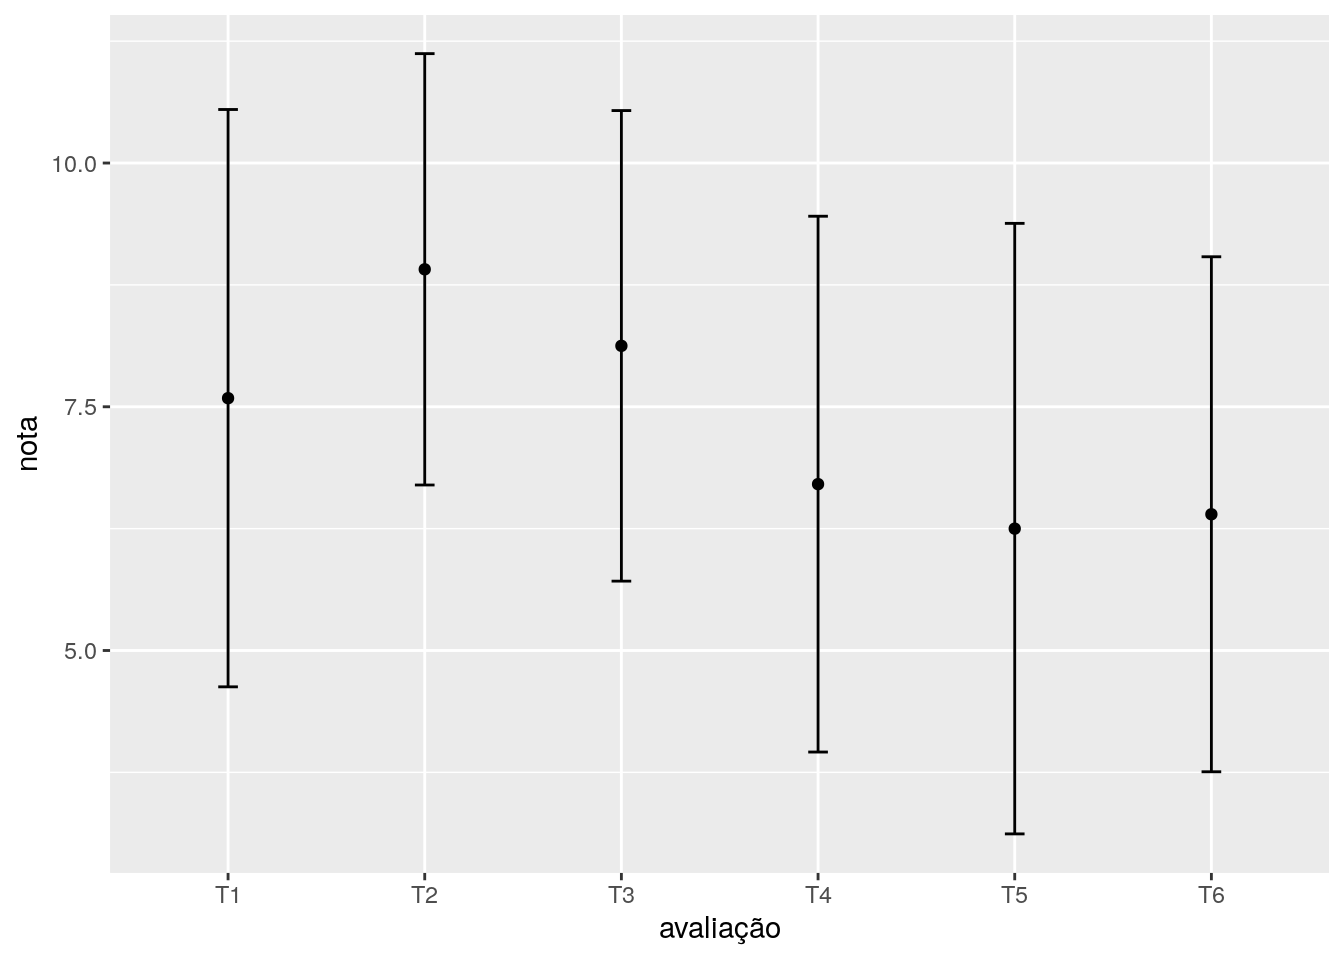
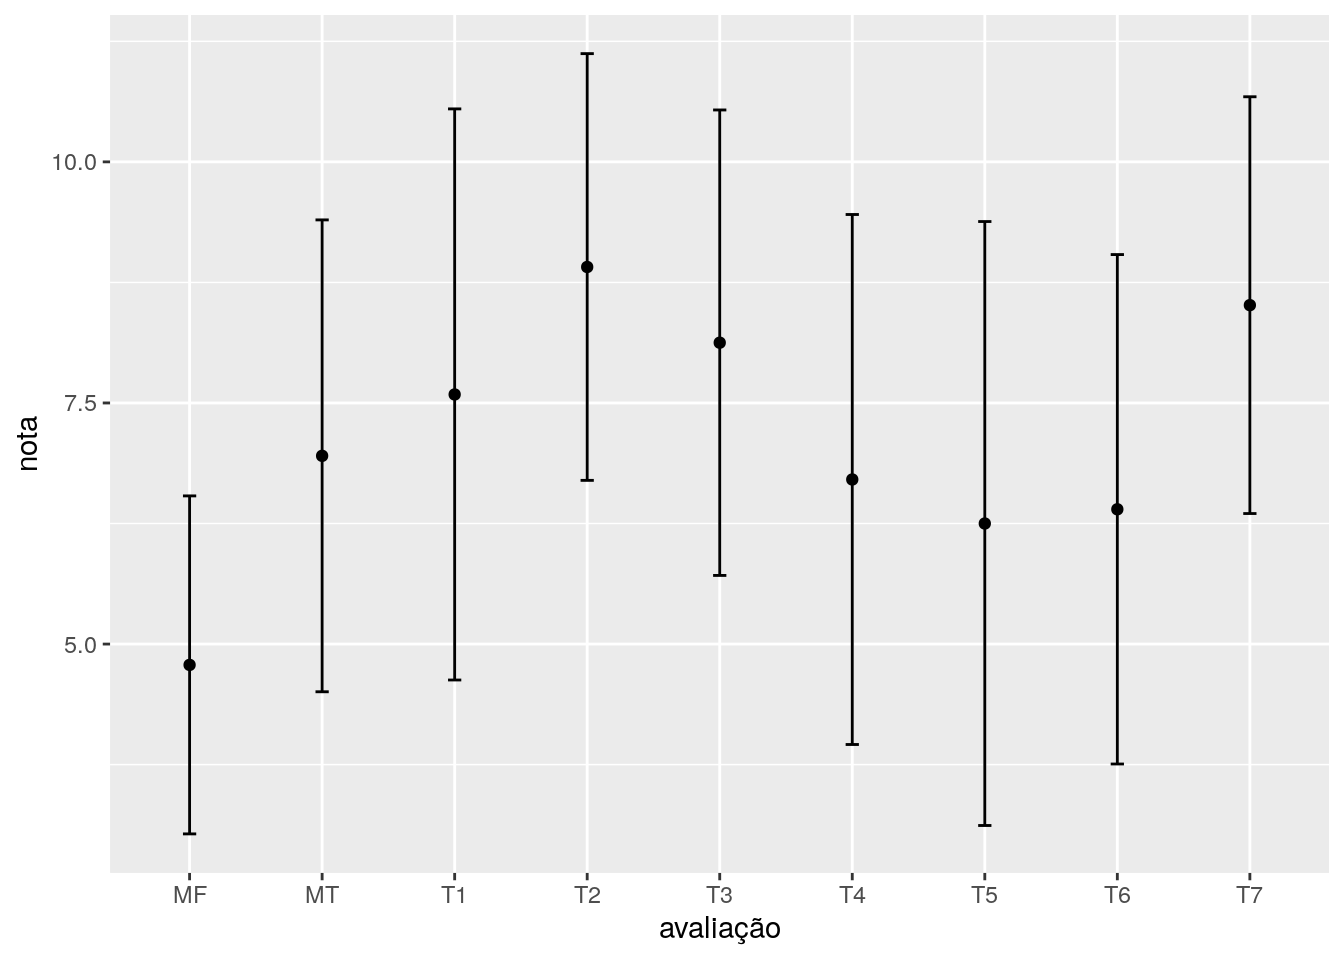
2019_2: grades prob_1 - T7 adv_if - P2

diff --git a/content/classes/2019_2_prob_1/grades.html b/content/classes/2019_2_prob_1/grades.html
@@ -29,7 +29,7 @@ código de ética desta disciplina e você está reprovado.</p></li>
 <div id="notas" class="section level3">
 <h3>Notas</h3>
 <div id="htmlwidget-1" style="width:100%;height:auto;" class="datatables html-widget"></div>
-<script type="application/json" data-for="htmlwidget-1">{"x":{"filter":"none","data":[[282,292,295,299,300,303,313,560,955,956,1779,1810,1877,1879,1880,1892,1914,1949,2066,2119,2123,2728,2872,3228,4149,4459,4750,4843,4844,4847,4855,4878,4882,5946,6690,7200,7390,7653,7703,7838,7857,7920,8013,8649,8675,8683,8692,8695,8921,9309,9339,9739,9782],[0.5,0.25,0.5,0,0.5,0.25,0.5,0.5,0,0,0.5,0,0,0.5,0,0.25,0.25,0.25,0,0,0,0,0.5,0.5,0,0,0,0,0.25,0,0.5,0.5,0,0,0,0,0.25,0,0.5,0.25,0,0.25,0,0,0.25,0.5,0.25,0,0,0,0,0,0],[5,10,10,10,10,10,5,4,10,10,5,0,10,7,3,10,10,4,7,5,0,10,10,10,7,5,3,5,2,5,10,10,10,8,1,10,10,10,10,4,10,4,10,10,3,10,10,2,8,10,10,10,5],[10,10,8,9,10,10,1,10,9.5,11,10,6,10,9,7.5,7,10,9.5,11,8,0,10,10,8,9.5,9,8,10,10,0,10,10,10,10,0,10,4,10,10,10,10,10,11,2,10,4,11,6,7,9.5,11,9,10],[6,10,10,10,10,10,10,4,10,4.5,6,0,8,10,7,10,10,10,8,4,0,4,10,6,10,0,6,6,10,0,10,10,10,9.5,1,10,9,7,6,7,10,9,10,0,6,10,10,3,10,7,6,10,10],[6,10,10,8,10,9,11,10,8,10,8.5,0,4,3,9,8,8,7.5,2,3,0,5,8,10,9,4,5,7,9,0,5,10,6,3,0,6.5,4,7,10,4,3,3,4,0,4,4,0,7,3,0,10,10,3],[10,10,10,7.5,10,9.5,10,3,0,0,3,0,0,6,4,0,9,4,0,6,0,10,0,0,0,0,0,0,6,0,4,0,3,0,0,0,0,0,7.5,1,1,0,1,0,0,6,7,0,9,0,0,5,0],[8,10,4,7,10,2,8,0,5,6.5,8,0,9,8,5,6,6,8,1,2,0,9,9,9,6,1,0,8,3,0,6,9,0,0,0,0,7,7,1,6,9,5,7,0,0,3,10,0,0,0,9,6,6]],"container":"<table class=\"display\">\n  <thead>\n    <tr>\n      <th>RA<\/th>\n      <th>Part<\/th>\n      <th>T1<\/th>\n      <th>T2<\/th>\n      <th>T3<\/th>\n      <th>T4<\/th>\n      <th>T5<\/th>\n      <th>T6<\/th>\n    <\/tr>\n  <\/thead>\n<\/table>","options":{"dom":"ftip","columnDefs":[{"className":"dt-right","targets":[0,1,2,3,4,5,6,7]}],"order":[],"autoWidth":false,"orderClasses":false}},"evals":[],"jsHooks":[]}</script>
+<script type="application/json" data-for="htmlwidget-1">{"x":{"filter":"none","data":[[282,292,295,299,300,303,313,560,955,956,1779,1810,1877,1879,1880,1892,1914,1949,2066,2119,2123,2728,2872,3228,4149,4459,4750,4843,4844,4847,4855,4878,4882,5946,6690,7200,7390,7653,7703,7838,7857,7920,8013,8649,8675,8683,8692,8695,8921,9309,9339,9739,9782],[0.5,0.5,0.5,0.5,0.5,0.5,0.5,0.5,0.5,0.5,0.5,0,0,0.5,0,0.25,0.5,0.5,0.25,0,0,0,0.5,0.5,0.5,0,0,0,0.5,0,0.5,0.5,0,0,0,0,0.25,0,0.5,0.5,0.5,0.25,0.25,0,0.25,0.5,0.25,0,0,0,0,0,0],[5,10,10,10,10,10,5,4,10,10,5,0,10,7,3,10,10,4,7,5,0,10,10,10,7,5,3,5,2,5,10,10,10,8,1,10,10,10,10,4,10,4,10,10,3,10,10,2,8,10,10,10,5],[10,10,8,9,10,10,1,10,9.5,11,10,6,10,9,7.5,7,10,9.5,11,8,0,10,10,8,9.5,9,8,10,10,0,10,10,10,10,0,10,4,10,10,10,10,10,11,2,10,4,11,6,7,9.5,11,9,10],[6,10,10,10,10,10,10,4,10,4.5,6,0,8,10,7,10,10,10,8,4,0,4,10,6,10,0,6,6,10,0,10,10,10,9.5,1,10,9,7,6,7,10,9,10,0,6,10,10,3,10,7,6,10,10],[6,10,10,8,10,9,11,10,8,10,8.5,0,4,3,9,8,8,7.5,2,3,0,5,8,10,9,4,5,7,9,0,5,10,6,3,0,6.5,4,7,10,4,3,3,4,0,4,4,0,7,3,0,10,10,3],[10,10,10,7.5,10,9.5,10,3,0,0,3,0,0,6,4,0,9,4,0,6,0,10,0,0,0,0,0,0,6,0,4,0,3,0,0,0,0,0,7.5,1,1,0,1,0,0,6,7,0,9,0,0,5,0],[8,10,4,7,10,2,8,0,5,6.5,8,0,9,8,5,6,6,8,1,2,0,9,9,9,6,1,0,8,3,0,6,9,0,0,0,0,7,7,1,6,9,5,7,0,0,3,10,0,0,0,9,6,6],[0,10,10,9.5,10,3,10,10,10,9,10,0,0,10,10,9,10,7,6,6.5,0,10,9.5,10,8,0,0,3,7.5,0,10,9,0,0,0,6,10,0,10,10,6,9,9,0,0,8,10,0,3,0,0,0,0],[7.5,10,9.67,9,10,8.58,9,6.83,8.75,8.5,7.92,1,6.83,8.33,7.08,8.33,9.5,7.67,5.83,5.42,0,9,9.42,8.83,8.25,3.17,3.67,6.5,7.58,0.83,8.5,9.67,6.5,5.08,0.33,7.08,7.33,6.83,8.92,6.83,8,6.67,8.5,2,3.83,7,9.67,3,6.67,4.42,7.67,8.33,5.67],[0,0,0,0,0,0,0,0,0,0,0,0,0,0,0,0,0,0,0,0,0,0,0,0,0,0,0,0,0,0,0,0,0,0,0,0,0,0,0,0,0,0,0,0,0,0,0,0,0,0,0,0,0],[5.38,7,6.79,6.35,7,6.08,6.35,4.94,6.19,6.03,5.65,0.65,4.44,5.91,4.6,5.66,6.67,5.49,4.04,3.52,0,5.85,6.62,6.24,5.86,2.06,2.39,4.23,5.43,0.54,6.03,6.79,4.23,3.3,0.21,4.6,5.01,4.44,6.3,4.94,5.7,4.59,5.78,1.3,2.74,5.05,6.54,1.95,4.34,2.87,4.99,5.41,3.69]],"container":"<table class=\"display\">\n  <thead>\n    <tr>\n      <th>RA<\/th>\n      <th>Part<\/th>\n      <th>T1<\/th>\n      <th>T2<\/th>\n      <th>T3<\/th>\n      <th>T4<\/th>\n      <th>T5<\/th>\n      <th>T6<\/th>\n      <th>T7<\/th>\n      <th>MT<\/th>\n      <th>P1<\/th>\n      <th>MF<\/th>\n    <\/tr>\n  <\/thead>\n<\/table>","options":{"dom":"ftip","columnDefs":[{"className":"dt-right","targets":[0,1,2,3,4,5,6,7,8,9,10,11]}],"order":[],"autoWidth":false,"orderClasses":false}},"evals":[],"jsHooks":[]}</script>
 </div>
 <div id="graficos" class="section level3">
 <h3>Gráficos</h3>

diff --git a/content/classes/2019_2_adv_inf/grades.html b/content/classes/2019_2_adv_inf/grades.html
@@ -22,7 +22,7 @@ as notas estão indexadas pelos
 <div id="notas" class="section level3">
 <h3>Notas</h3>
 <div id="htmlwidget-1" style="width:100%;height:auto;" class="datatables html-widget"></div>
-<script type="application/json" data-for="htmlwidget-1">{"x":{"filter":"none","data":[[9350,1022,3246,4638,1670,4467,3510,6302,5880,7525,1320,4792,1546,8404,3271],[9,9.5,3.5,3,7.5,5.8,2,3,6.3,9.3,6.5,9.5,7,9,4.3]],"container":"<table class=\"display\">\n  <thead>\n    <tr>\n      <th>USP<\/th>\n      <th>P1<\/th>\n    <\/tr>\n  <\/thead>\n<\/table>","options":{"dom":"ftip","columnDefs":[{"className":"dt-right","targets":[0,1]}],"order":[],"autoWidth":false,"orderClasses":false}},"evals":[],"jsHooks":[]}</script>
+<script type="application/json" data-for="htmlwidget-1">{"x":{"filter":"none","data":[[9350,1022,3246,4638,1670,4467,5820,6302,5880,7525,1320,4792,1546,8404,3271],[9,9.5,3.5,3,7.5,5.8,2,3,6.3,9.3,6.5,9.5,7,9,4.3],[9,0,7,0,9.5,5.5,4.3,5.5,6.8,7,5,9.5,5.8,9,0]],"container":"<table class=\"display\">\n  <thead>\n    <tr>\n      <th>USP<\/th>\n      <th>P1<\/th>\n      <th>P2<\/th>\n    <\/tr>\n  <\/thead>\n<\/table>","options":{"dom":"ftip","columnDefs":[{"className":"dt-right","targets":[0,1,2]}],"order":[],"autoWidth":false,"orderClasses":false}},"evals":[],"jsHooks":[]}</script>
 </div>
 <div id="graficos" class="section level3">
 <h3>Gráficos</h3>
